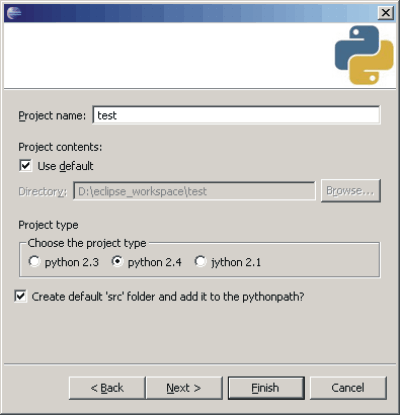
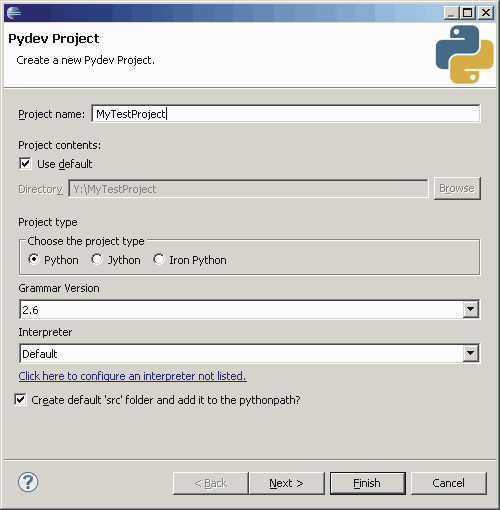
Updating homepage Fixed issue creating project with existing sources
git-svn-id: svn://localhost/trunk@1517 42a48d6c-1186-114d-bcb1-a7d39102e91d

diff --git a/plugins/com.python.pydev.docs/new_homepage/manual_101_project_conf.rst b/plugins/com.python.pydev.docs/new_homepage/manual_101_project_conf.rst
@@ -1,21 +1,96 @@
-<p>Ok, now that your interpreter is configured, it is time to <strong>create a project</strong>. After opening Eclipse, go to the menu:
-file > new > project > Pydev > Pydev project. You should see the screen below:
-</p><br/>
+.. contents::
+
+Creating a Project
+------------------
+
+Ok, now that your interpreter is configured, it is time to **create a project**. 
+
+After opening Eclipse, go to the menu:
+**file > new > project > Pydev > Pydev project**. You should see the screen below:
 
 
-<p align="center"><IMG src="images/new_project.png" border="1"/></p>
-<p align="center">New Project Image</p><br/>
+.. image:: images/new_project.png
+   :class: snap
+   :align: center   
 
-<p>In this screen, you have to decide the project name, its location and its type. Also, it will present an option saying 
-'Create default 'src' folder and add it to the pythonpath'. If you don't leave that option checked, you'll have to create
-the source folder(s) yourself after the project is created.
-</p><br/>
+**Project name**: this is the name of the project.
 
-<p>You may finish in this screen or go to the next, where you will be asked which projects are referenced from this one. This is
-very important so that code completion works correctly. Also, the 'reference' is only one level deep. i.e. If you have
-a project A which depends on B, which in turn depends on C, you will have to make a reference from A to B and from A to C.
-It works basically getting the paths from the referenced projects and adding it to the PYTHONPATH for the project you're creating.
-</p><br/>
+**Project contents**: where it should be located. 
 
-<p align="center"><IMG src="images/project_refs.png" border="1"/></p><br/>
-<p align="center">Project References Image</p><br/>
+**Project type**: defines the set of interpreters that will be available for that project.
+
+**Grammar version**: the grammar used for parsing the files in this project. It doesn't have to match the grammar of the 
+actual interpreter selected. This is done so that you can use a newer interpreter while having the grammar you use 
+compatible with an older interpreter (e.g.: using a Python 2.6 interpreter with a Python 2.4 grammar in the project).
+
+**Interpreter**: Defines which interpreter should be used for code-completion and default run configurations (note that
+you can still create a run configuration with a different interpreter). 
+
+**Create default 'src' folder and add it to the pythonpath**: If you don't leave that option checked, you'll have to create
+the source folder(s) yourself after the project is created (which is covered in the next tutorial page).
+
+You may finish in this screen or go to the next, where you will be asked which projects are referenced from this one. 
+
+
+Referenced projects
+--------------------
+
+The referenced projects are the projects whose source folders are added to the PYTHONPATH for the 
+referrer project.
+
+This is very important so that code completion and run configurations work correctly. 
+
+Note that it'll get the configurations recursively, so, if a project A depends on B, which in turn depends on C, you
+just have to add a reference from A to B (and C will already be automatically referenced)
+
+
+
+.. image:: images/project_refs.png
+   :class: snap
+   :align: center   
+
+   
+Creating a Project from existing sources
+-----------------------------------------
+
+   If you **created the project inside Eclipse**, you just have to import the project again 
+   (in **files > import > general > existing projects into workspace**) -- it'll look for the existing .project
+   file and will configure it automatically from the existing configuration. 
+   
+   If you have the sources from an existing project that wasn't created in Eclipse, you have 2 options:
+   
+   - Create the project as if it was a new project, but leave the **create default 'src' folder** option 
+     **unchecked** and point the location to the location of the sources (or a level above) -- the next tutorial page 
+     will explain the steps to configure the PYTHONPATH (which should be done after creating the project this way).
+   
+   - Create a new project in the default workspace and create a folder that's a **link to your existing sources**. Note
+     that this link folder must be added to the PYTHONPATH in the next step.
+     
+     **Note 1**: **links** can be used **above the source folder** or **as the source folder**, but 
+     **never inside a source folder**, as it's not supported by Pydev)
+     
+     **Note 2**: To create the folder as a link, choose the **file > new > folder** from the menu and in the new folder
+     dialog select the **Advanced >>** options.
+     
+     **Note 3**: If the file structure you have is:
+     
+     	myproject
+     	
+     		__init__.py
+     		
+     		module.py
+     		
+     	and you want to make the import:
+     	
+     		**from myproject import module**
+     		
+     	you have to add to the project the **folder above myproject** (as the folder above myproject 
+     	will be your source folder -- as required by Python).
+     	
+     
+   
+   
+   
+   
+    
+   

diff --git a/plugins/com.python.pydev.docs/new_homepage/manual_101_interpreter.rst b/plugins/com.python.pydev.docs/new_homepage/manual_101_interpreter.rst
@@ -41,7 +41,20 @@ What if it is not correct?
 	in a way that for some reason when getting the variables of one interpreter, it gathers the info from another
 	interpreter (thus mixing the interpreter and the actual libraries).
 	
-	If you're unable to find out what's going on, please ask in the users forum.
+	Usually running (from the command prompt) the file that gives that info for Pydev can help you discovering the
+	problem in your configuration (interpreterInfo.py):
+	
+		That file is usually located at: eclipse\plugins\org.python.pydev_$version$\PySrc\interpreterInfo.py,
+		but it can be at other location depending on how you installed it )
+	 
+		python.exe interpreterInfo.py
+		
+		java.exe -cp c:\path\to\jython.jar org.python.util.jython interpreterInfo.py 
+		
+		ipy.exe interpreterInfo.py
+		
+	If you're unable to find out what's going on, please ask in the users forum (giving the output obtained from
+	executing interpreterInfo.py in your machine).
 	
 	
 What if I add something new in my System PYTHONPATH after configuring it?
